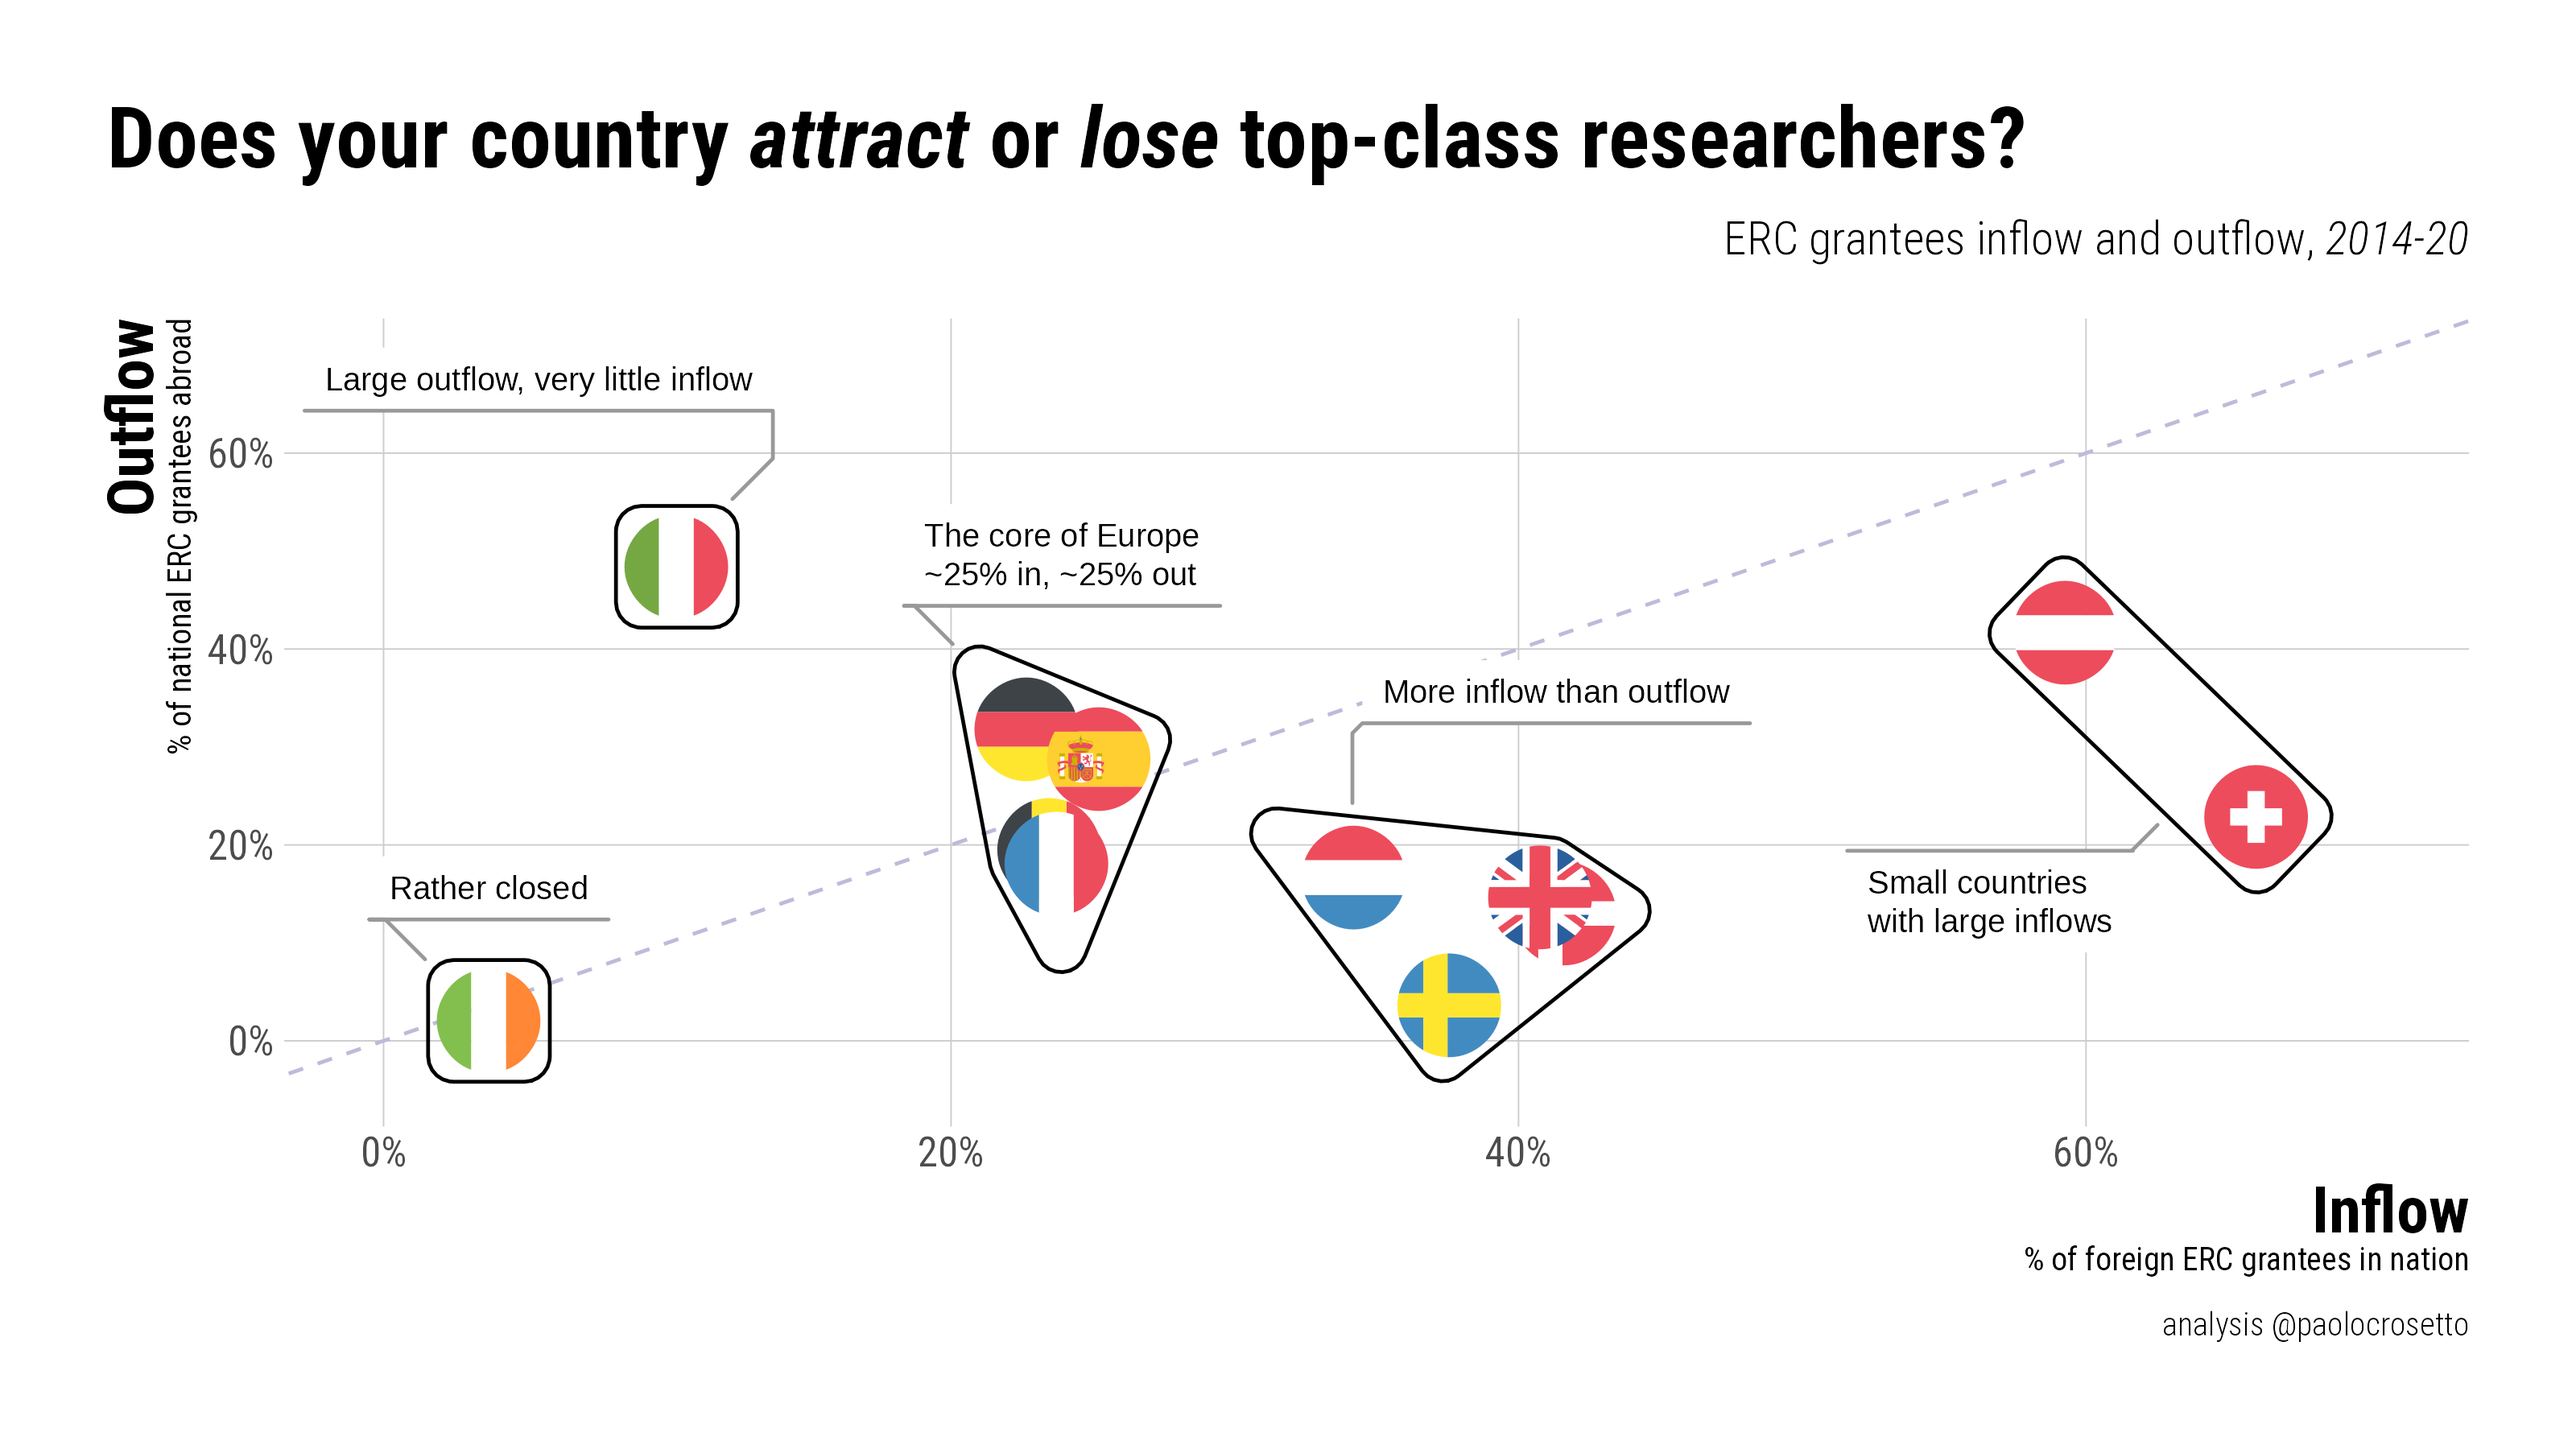
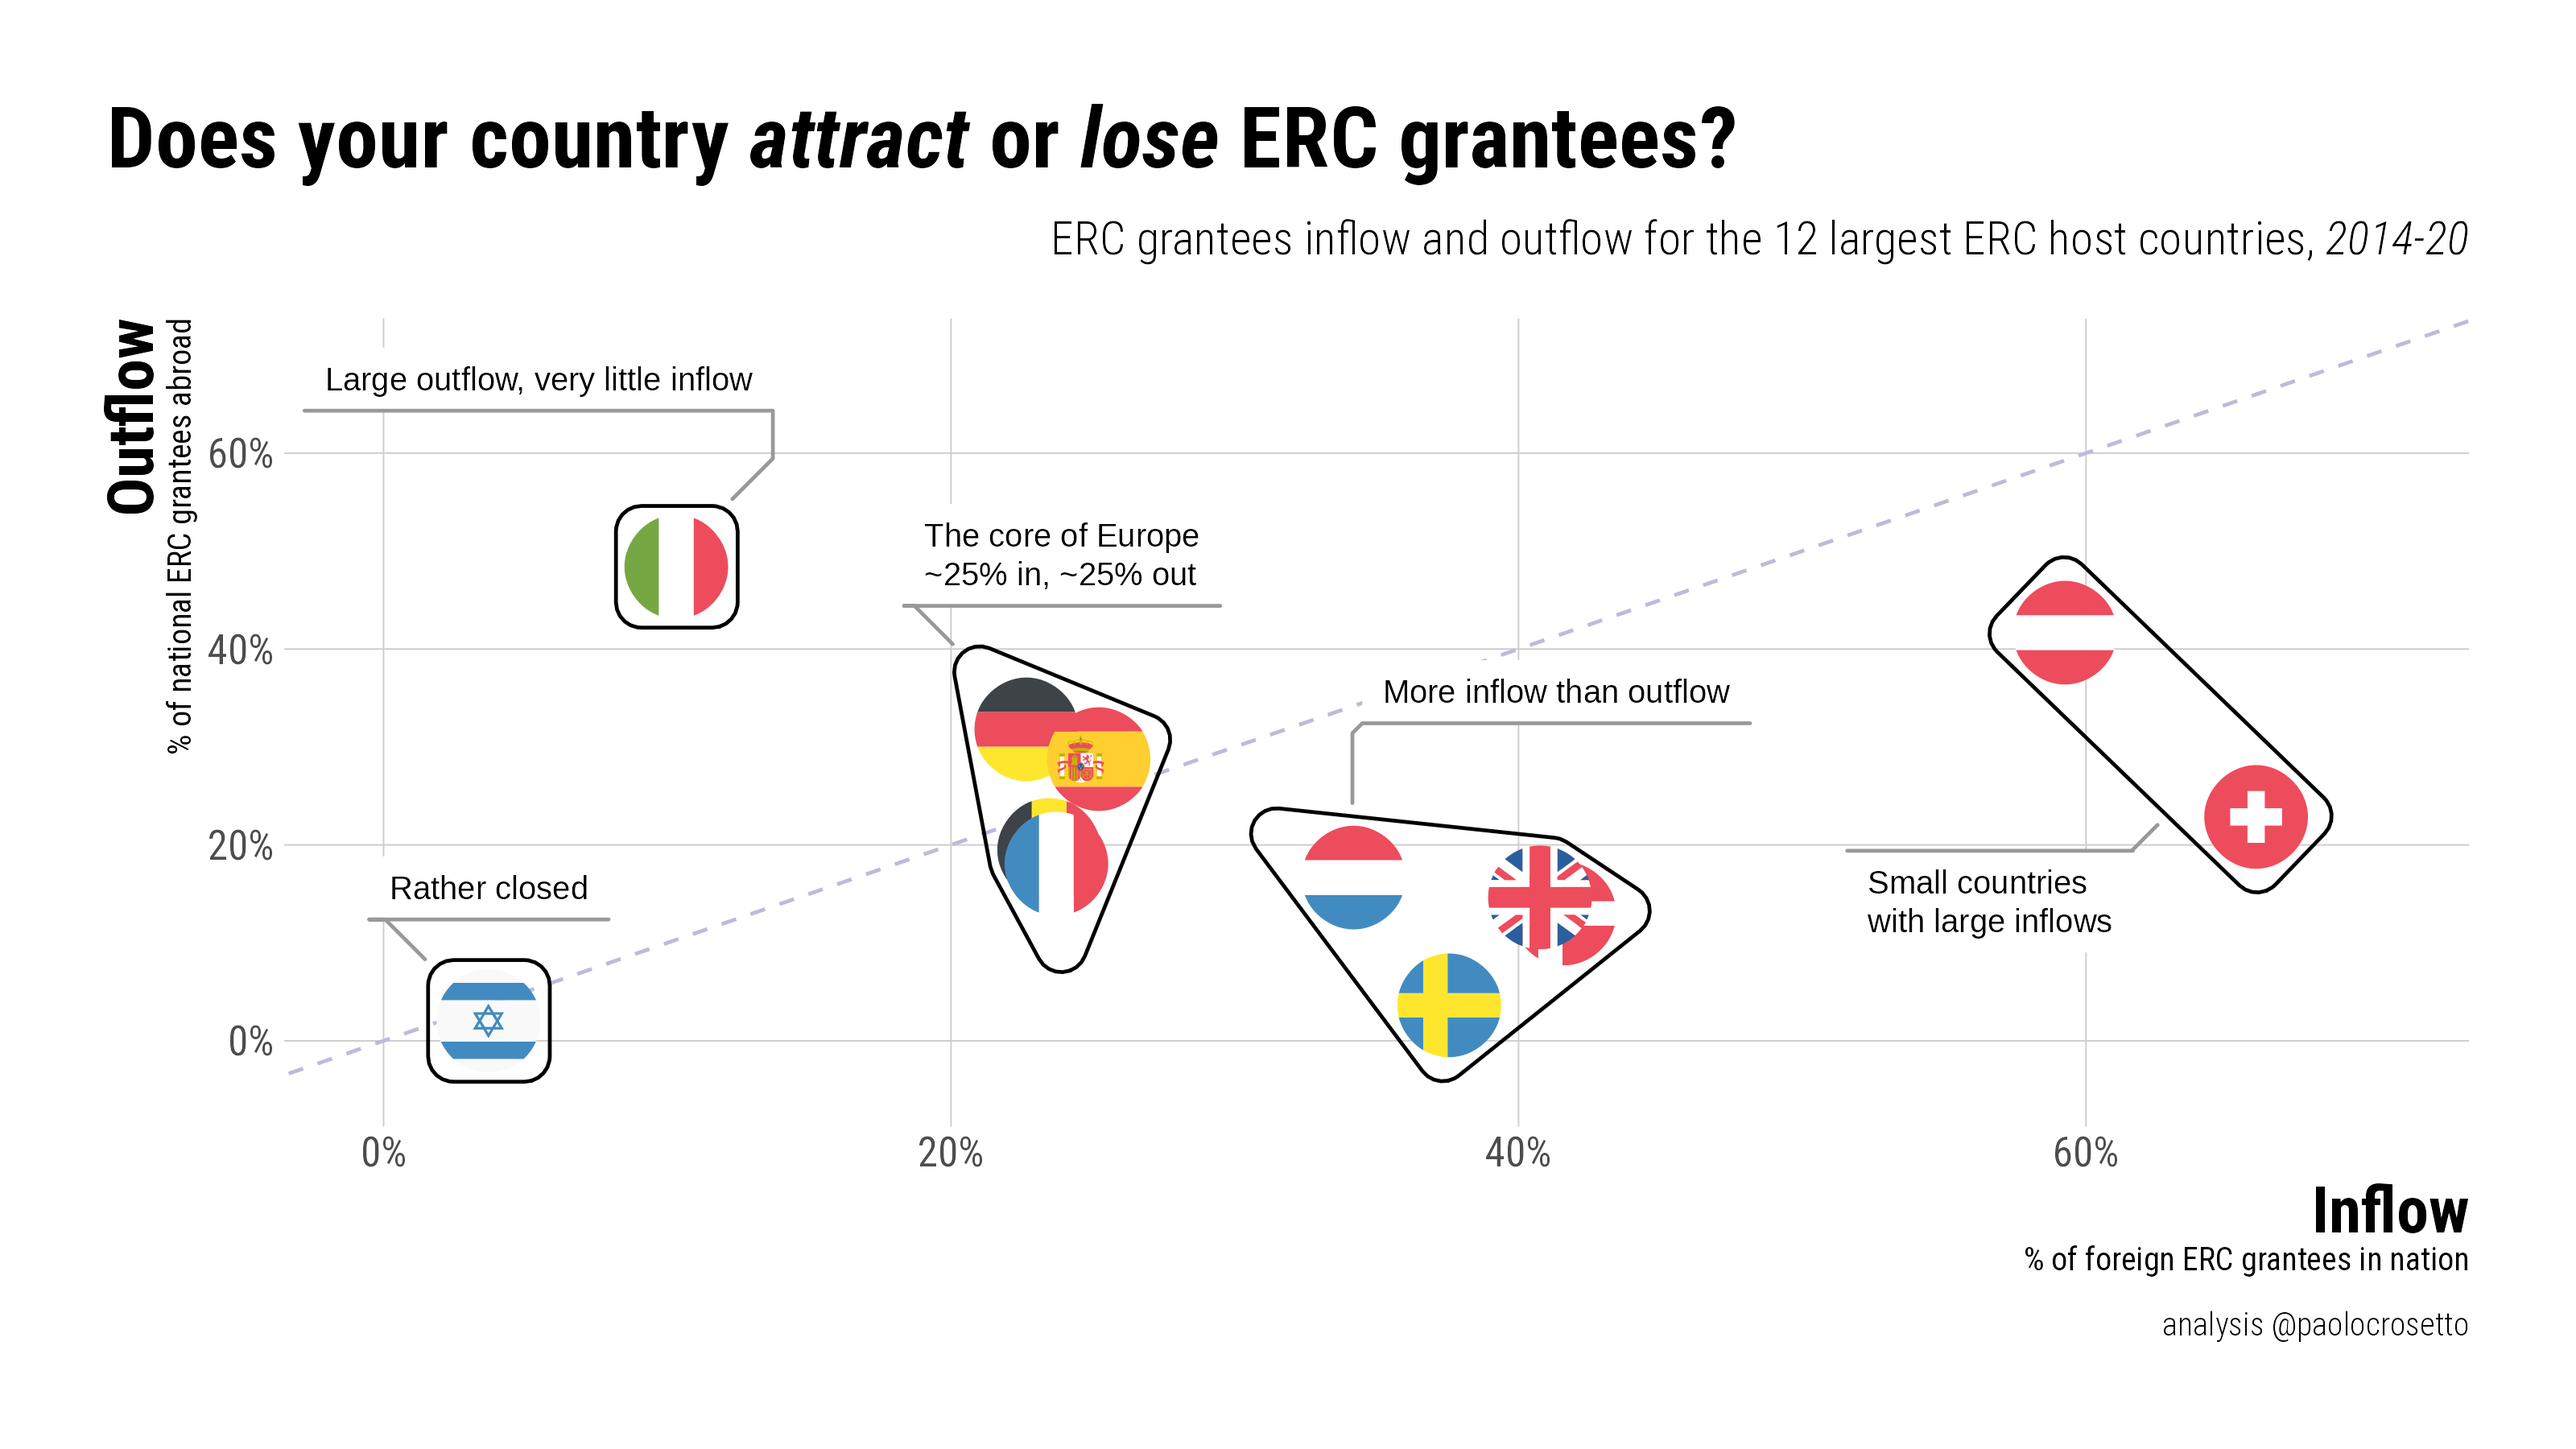
Correcting the Irish mistake

Changed region(s): [[0.4688, 0.0622, 0.7812, 0.1244], [0.4062, 0.1556, 0.9062, 0.1867], [0.1562, 0.6533, 0.2188, 0.7467]]

diff --git a/README.md b/README.md
@@ -1,6 +1,8 @@
 # ERC_inflow_outflow
 
-Repository to hold the ERC data and the plot of the attractiveness of EU countries in term of ERC grantees
+Repository to hold the ERC data and the plot of the attractiveness of EU countries in term of ERC grantees. \
+**In the first version of the plot that was circulated there was a honest but terrible mistake, I mistook the country code "IL" to mean Ireland -- but it means Israel**. \
+This repo contains the correct script & plot, but also the bad ones in a hall of shame to remind my future self of triple-checking before tweeting.
 
 ## Dependencies
 
@@ -10,15 +12,13 @@ The script depends on `tidyverse` and several `ggplot` extensions -- nothing els
 
 Data were shared by the ERC based on official ERC data, aggregated over several years to ensure the privacy of PIs.
 
-## Tweet
+## Tweet 
 
 The plot has been share on Twitter here: <https://twitter.com/PaoloCrosetto/status/1601543398200311809?s=20&t=FFxWHl2U2w82rdXMsbI8Tw>
 
-## Plot
+## Correct plots
 
 ![](ERC.png)
-
-## Size-adjusted plot
 
 Here flags are adjusted to indicate number of projects run in the country.
 
